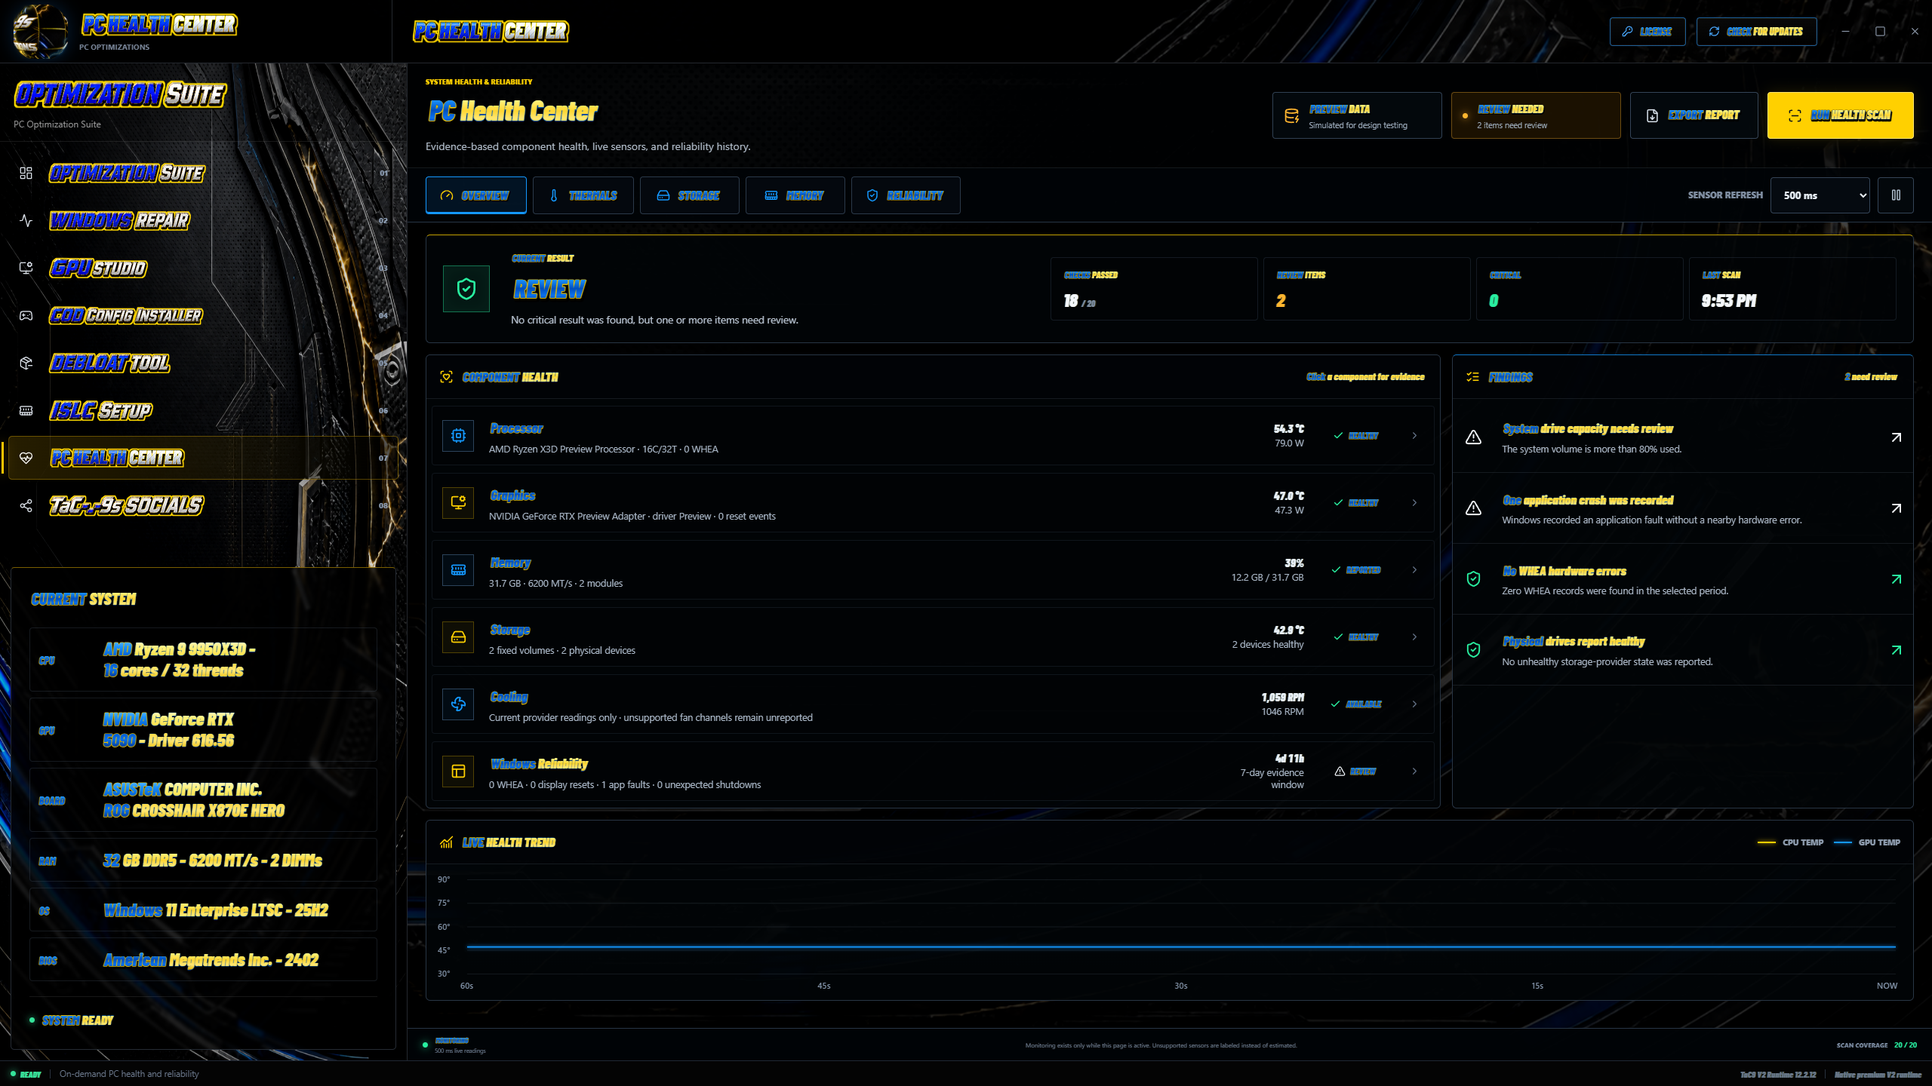
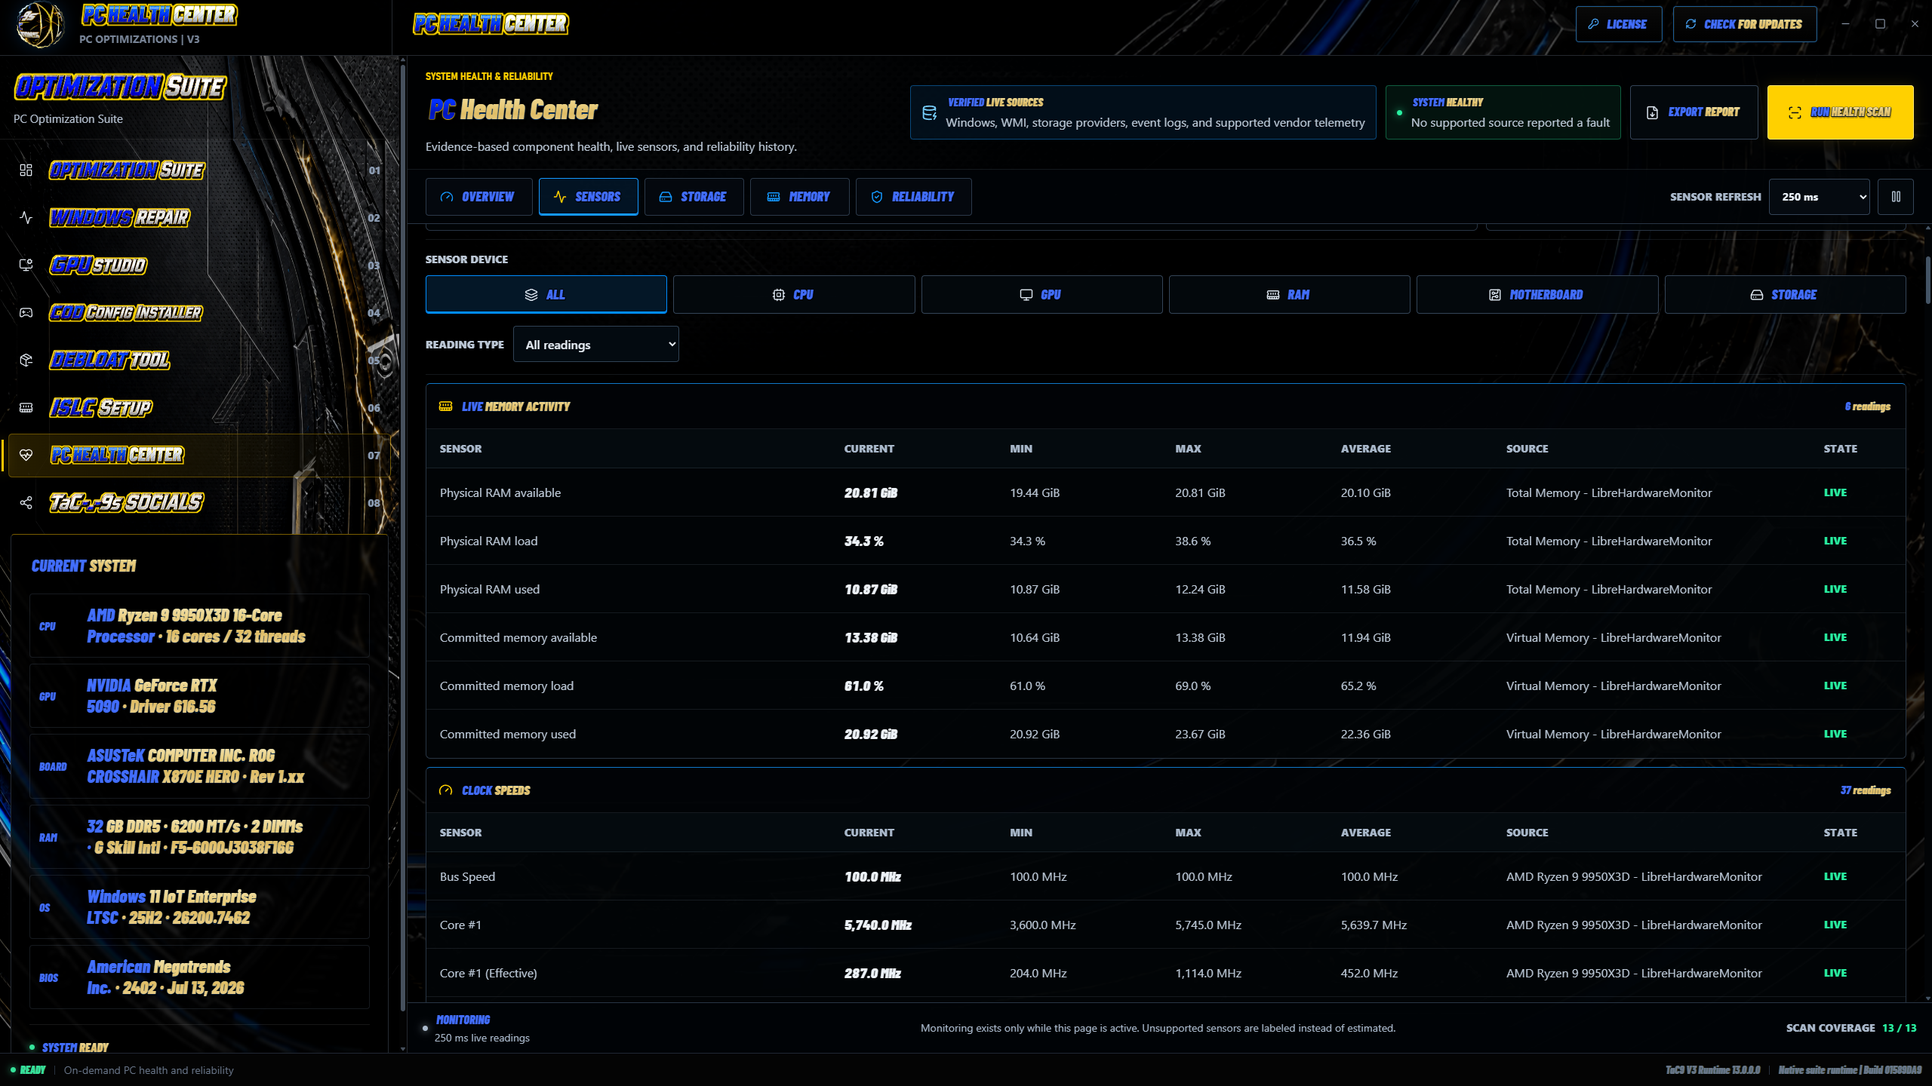
Publish V3 documentation, screenshots, and compatible verified downloader

diff --git a/README.md b/README.md
@@ -1,4 +1,4 @@
-# TaC9 PC Optimization Suite V2
+# TaC9 PC Optimization Suite V3
 
 **Windows optimization, repair, NVIDIA driver setup, game configuration, and PC health in one desktop suite.**
 
@@ -10,17 +10,30 @@ The suite is distributed as a **free app**. This repository is for customer down
 
 ![TaC9 Optimization Suite dashboard and eight-app navigation](docs/screenshots/suite.png)
 
-> Screenshots show the packaged 12.2.12 interface with example hardware and status data. They demonstrate the layout, not completed maintenance operations or performance results. Actual readings and available controls depend on your PC.
+> Screenshots show the packaged V3 13.0.0 interface. Hardware and live sensor values are from the test PC; non-sensor maintenance states use the UI test harness. No driver cleanup, repair, or app removal was performed for these screenshots. Available readings depend on your PC.
+
+## New in V3
+
+- A full-screen animated startup with the rotating TaC9 emblem, assembling silver chassis, upgraded blue/gold lighting, and a smoother transition into the suite.
+- Larger, clearer text and content-aware scrolling throughout the suite, including the 1080p and scaled-window layout fixes.
+- Expanded PC Health Center sensor tables with **Current, Min, Max, Average, Source, and State**, plus device and reading-type filters.
+- CPU, GPU, RAM, motherboard, and storage monitoring where supported, including temperatures, voltages, wattages, clocks, utilization, cooling, current, transfer rates, and memory activity.
+- CPU-sensor diagnostics with an optional, explicitly confirmed installation of the official signed PawnIO support component when needed.
+- A GPU preflight fix for the reported GPU-Z/HWiNFO `Add` error, corrected status reporting, and no false 100% completion on failed operations.
+
+The eight existing workspaces remain together. The repository keeps its original `TaC9-PC-Optimization-Suite-V2` address so established links and update feeds continue to work; **the current application is V3**.
 
 ## Download
 
-**Current release: 12.2.13**
+**Current release: V3 13.0.0, build 01589DA9**
 
-**[Download the full TaC9 suite for Windows](https://github.com/Tac-9-Pc-Optimizations/TaC9-PC-Optimization-Suite-V2/releases/latest/download/TaC9-PC-Optimization-Suite-V2.exe)**
+**[Download TaC9 V3 for Windows](https://github.com/Tac-9-Pc-Optimizations/TaC9-PC-Optimization-Suite-V2/releases/latest/download/TaC9-PC-Optimization-Suite-V3.exe)**
 
 [All releases and release notes](https://github.com/Tac-9-Pc-Optimizations/TaC9-PC-Optimization-Suite-V2/releases) | [SHA-256 checksum](https://github.com/Tac-9-Pc-Optimizations/TaC9-PC-Optimization-Suite-V2/releases/latest/download/SHA256SUMS.txt)
 
-One complete Windows executable, `TaC9-PC-Optimization-Suite-V2.exe`, includes the suite's eight workspaces. The COD Config Installer is included inside the suite, not offered here as a separate executable. Version 12.2.13 is approximately 163 MiB.
+One complete Windows executable, `TaC9-PC-Optimization-Suite-V3.exe`, includes the suite's eight workspaces. The COD Config Installer is included inside the suite, not offered here as a separate executable. Version 13.0.0 is approximately 191.5 MiB. Blender and Node.js are not required on the customer's PC.
+
+The release also supplies a byte-identical `TaC9-PC-Optimization-Suite-V2.exe` compatibility asset for existing updater clients and old direct-download links. That asset runs **V3**, despite its retained filename. The genuine previous V2 remains available in the [12.2.13 release](https://github.com/Tac-9-Pc-Optimizations/TaC9-PC-Optimization-Suite-V2/releases/tag/v12.2.13).
 
 The X3D Core Tester, CoreCycler, and y-cruncher are not included in this release.
 
@@ -32,20 +45,20 @@ Run this short command in Windows PowerShell 5.1 or PowerShell 7:
 irm https://raw.githubusercontent.com/Tac-9-Pc-Optimizations/TaC9-PC-Optimization-Suite-V2/main/win.ps1 | iex
 ```
 
-It runs the [readable download script](win.ps1) from this official repository. The script downloads the **latest published suite to your Desktop**, verifies the signed release manifest and the executable's SHA-256, and reports the saved file location. An existing download is left intact if verification fails; a matching current download is reused.
+It runs the [readable download script](win.ps1) from this official repository. The command is unchanged from V2. The script downloads the **latest published suite to your Desktop as `TaC9-PC-Optimization-Suite-V3.exe`**, verifies the signed release manifest and the executable's SHA-256, and reports the saved file location. An existing download is left intact if verification fails; a matching current download is reused.
 
 Only the same-named Desktop executable is replaced after successful verification. Other TaC9 executables, folders, shortcuts, license keys, settings, backups, and logs are not removed or changed. This is a downloader, not an uninstaller for previous TaC9 suites.
 
 The script does **not** launch the app, request administrator access, change execution policy, or disable Windows security protections. The short command executes a downloaded script, so use only this official URL and review [win.ps1](win.ps1) before running it. Download verification is not a Windows Authenticode publisher signature.
 
 <details>
-<summary>Manual download of version 12.2.13 without running a hosted script</summary>
+<summary>Manual download of V3 13.0.0 without running a hosted script</summary>
 
 ```powershell
-$url = 'https://github.com/Tac-9-Pc-Optimizations/TaC9-PC-Optimization-Suite-V2/releases/download/v12.2.13/TaC9-PC-Optimization-Suite-V2.exe'
-$file = Join-Path ([Environment]::GetFolderPath('Desktop')) 'TaC9-PC-Optimization-Suite-V2.exe'
+$url = 'https://github.com/Tac-9-Pc-Optimizations/TaC9-PC-Optimization-Suite-V2/releases/download/v13.0.0/TaC9-PC-Optimization-Suite-V3.exe'
+$file = Join-Path ([Environment]::GetFolderPath('Desktop')) 'TaC9-PC-Optimization-Suite-V3.exe'
 Invoke-WebRequest -Uri $url -OutFile $file -UseBasicParsing
[2 lines of base64/hex data omitted]
 Write-Host "Download verified: $file"
 ```
 
@@ -175,15 +188,22 @@ Memory cleanup is workload-dependent and is not a substitute for enough physical
 
 **An evidence-based view of supported hardware readings and Windows reliability history.**
 
-PC Health Center groups **Overview**, **Thermals**, **Storage**, **Memory**, and **Reliability** into one monitoring workspace. It combines the sources available on the current PC, including Windows inventory, supported sensor providers, storage status, and event-log evidence.
+PC Health Center groups **Overview**, **Sensors**, **Storage**, **Memory**, and **Reliability** into one monitoring workspace. It combines the sources available on the current PC, including Windows inventory, supported sensor providers, storage status, and event-log evidence.
 
-- Review processor and graphics temperatures, available power or clock readings, memory use, and storage information.
+- Filter readings by **All, CPU, GPU, RAM, Motherboard, or Storage**, then narrow the reading type.
+- Inspect temperature, voltage, power/wattage, clock/effective-clock, utilization, cooling, electrical-current, transfer-rate, RAM-activity, and GPU-memory sections where exposed.
+- Compare **Current, Min, Max, and Average** for the monitoring session, with the original provider and availability state alongside each row.
+- See measured CPU Vcore when a provider exposes it. Requested per-core VID is kept separate, and memory-controller voltage is not mislabeled as measured DIMM voltage.
+- Review a live CPU/GPU temperature trend, memory use, drive information, and supported DIMM temperatures.
 - Inspect component findings and their supporting evidence instead of relying on one unexplained score.
 - Review recorded WHEA hardware errors, display resets, application faults, and unexpected shutdowns where available.
 - Adjust the sensor refresh interval, pause monitoring, run a health scan, and export a report.
 - Distinguish reported healthy state, review items, critical findings, and unavailable data.
+- Diagnose missing CPU support. If prompted, choose **Set Up CPU Sensors** and confirm installation of the bundled official signed PawnIO component; reopen TaC9 afterward and restart Windows only if requested. It is not installed automatically at startup or by the PowerShell downloader.
 
 Unsupported sensor channels stay unavailable rather than being invented. A healthy result means no fault was found in the supported sources and selected evidence window; it is not a stress test, a hardware certification, or a guarantee against future failure.
+
+Individual CPU, motherboard, firmware, and driver combinations determine sensor availability. Not every system exposes measured Vcore, per-DIMM voltage/power, every fan, or GPU hotspot. Keep Windows security protections enabled if driver access is blocked, and export a report for support instead of disabling them.
 
 ![PC Health Center with component evidence, findings, sensor controls, and a live trend view](docs/screenshots/health.png)
 
@@ -197,7 +217,7 @@ Open the official Discord for support and announcements, visit the TaC9 YouTube 
 
 ## Getting Started
 
-1. [Download the full-suite executable](https://github.com/Tac-9-Pc-Optimizations/TaC9-PC-Optimization-Suite-V2/releases/latest/download/TaC9-PC-Optimization-Suite-V2.exe), or use the [PowerShell download](#powershell-download) above. Compare its SHA-256 checksum with the release information.
+1. [Download the full-suite V3 executable](https://github.com/Tac-9-Pc-Optimizations/TaC9-PC-Optimization-Suite-V2/releases/latest/download/TaC9-PC-Optimization-Suite-V3.exe), or use the [PowerShell download](#powershell-download) above. Compare its SHA-256 checksum with the release information.
 2. **[Join the official TaC9 Discord](https://discord.gg/3nrUffpVzt) and open a support ticket to request your license key.** The TaC9 team will help you obtain the key for the protected tools.
 3. Save your work. Back up important files and create a Windows restore point before making substantial system changes.
 4. Launch the suite with administrator rights when required for system operations. The interface uses Microsoft Edge WebView2; the launcher can attempt runtime setup when it is missing.
@@ -215,18 +235,20 @@ Open the official Discord for support and announcements, visit the TaC9 YouTube 
 - A supported NVIDIA GPU for GPU Studio's automated driver workflow.
 - A matching installed game and platform for the COD configuration workflow.
 
-The interface has been checked at 800x600, 1024x768, 1366x768, 1920x1080, and 2560x1440. Smaller windows use scrolling where needed. This is layout testing, not certification of every monitor, DPI setting, Windows build, or hardware combination.
+The V3 layout has been checked at 1920x1080, 1536x864, 1366x768, and 1280x720. The packaged native host was also checked at 1920x1080, 1536x864, and 1280x720; separate readability checks cover narrower views. Smaller windows use scrolling where needed. This is not certification of every monitor, DPI setting, Windows build, or hardware combination.
 
 ### Updates on Startup
 
 Starting with 12.2.13, **every normal launch checks for suite and supported tool updates**. A recent launch no longer skips the online check for four hours.
 
-- **Suite and built-in workspaces:** the signed V2 GitHub release updates the complete suite together, including Windows Repair, GPU Studio, COD Config Installer, Debloat Tool, ISLC Setup, PC Health Center, and Socials.
+- **Suite and built-in workspaces:** the existing signed GitHub feed now delivers V3 and updates the complete suite together, including Windows Repair, GPU Studio, COD Config Installer, Debloat Tool, ISLC Setup, PC Health Center, and Socials.
 - **Supported tool packages:** the tool updater checks DDU, NVCleanstall, ISLC, and the approved compatible NVIDIA Profile Inspector release. Profile Inspector intentionally follows the approved version, not any untested upstream release. Bundled TaC9 profile changes are delivered with suite releases.
 - **Verified installation:** newer suite packages must pass the signed manifest, SHA-256, and internal package checks before the update helper replaces the running suite and restarts it. Tool packages use their existing source and integrity checks. Saved license data and settings are retained.
 - **Unavailable sources:** incomplete checks are reported honestly; the installed verified suite can still open, independent tool checks are attempted, and a fresh check runs next launch.
 
 The **Check for Updates** button also runs these checks on demand. When moving from 12.2.12, use that button once to bypass its old four-hour startup cache, or close the suite and use the short PowerShell downloader.
+
+An in-app upgrade replaces the executable at its existing location, so an older `V2.exe` filename may remain even though the app and its version are V3. The current short downloader creates the V3-named Desktop file and leaves differently named old suites alone. Earlier local V3 test builds also reported 13.0.0; use the downloader to replace those with released build **01589DA9**, because the version-based updater does not treat the same version as newer.
 
 Startup package updates do not run GPU driver removal or installation, Windows repair, app debloating, or game-configuration actions. Those workflows remain actions you choose inside the suite. This is not a general updater for every application installed on Windows.
 
@@ -237,7 +259,7 @@ For maintainers, each newer release must include the full-suite EXE and a matchi
 Open PowerShell in the download folder and run:
 
 ```powershell
-Get-FileHash -LiteralPath '.\TaC9-PC-Optimization-Suite-V2.exe' -Algorithm SHA256
+Get-FileHash -LiteralPath '.\TaC9-PC-Optimization-Suite-V3.exe' -Algorithm SHA256
 ```
 
 Compare the full value with the checksum supplied for that exact release. A checksum helps detect a mismatched or damaged download; it does not replace publisher verification or a security scan.

diff --git a/docs/RELEASE-NOTES.md b/docs/RELEASE-NOTES.md
@@ -1,5 +1,58 @@
 # Release Notes
 
+## V3 13.0.0 - September 7, 2026
+
+[Download V3](https://github.com/Tac-9-Pc-Optimizations/TaC9-PC-Optimization-Suite-V2/releases/tag/v13.0.0). Build **01589DA9**.
+
+### Visuals and Readability
+
+- Full-screen startup with the rotating TaC9 emblem, assembling silver chassis, improved blue/gold lighting, and a smoother outward transition into the suite.
+- Startup progress remains visible until the outward transition starts. The native window waits for its first composed frame before becoming visible.
+- Larger, clearer text, hover-driven trim animation, and content-aware scrolling. Active progress trims continue while verification is pending.
+- Corrected dashboard/sidebar clipping at 1080p and common scaled sizes; the health trend reserves space for its full time axis.
+
+### Expanded PC Health Center
+
+- Current, Min, Max, Average, Source, and State across supported sensor tables.
+- Device filters for CPU, GPU, RAM, motherboard, and storage, combined with reading-type filters.
+- Temperature, voltage, wattage, clock/effective-clock, utilization, fan/duty, electrical-current, transfer-rate, RAM-activity, and GPU-memory sections where exposed.
+- Measured motherboard CPU Vcore appears in the CPU group when available. Requested VID and memory-controller voltages retain their distinct labels.
+- Shared sensor acquisition prevents an older health snapshot from erasing a newer GPU hotspot reading.
+- CPU-support diagnostics distinguish missing driver, elevation, blocked access, limited coverage, and restart-required states. Optional **Set Up CPU Sensors** uses the original signed PawnIO 2.2.0 installer only after confirmation; reopen TaC9 afterward.
+- Missing readings remain unavailable, never estimated. Sensor support varies by hardware, firmware, and provider. No promise of every sensor on every CPU or RAM module.
+
+### GPU Error and Operation Status
+
+- Fixed the process-inventory variable collision that reproduced `Cannot find an overload for "Add" and the argument count: "1"` with GPU-Z and regex-matched HWiNFO process names.
+- Fixed the retained GPU workflow's status-callback parameter compatibility.
+- Failed operations preserve their last percentage, mark untouched stages **Not run**, and remove the active restart warning. Only accepted successful completion reaches 100%.
+- Added local GPU error diagnostics for troubleshooting without publishing customer logs.
+
+### Installing and Updating
+
+The repository URL and short PowerShell command are unchanged. The current downloader saves `TaC9-PC-Optimization-Suite-V3.exe` on the Desktop; it does not remove differently named suites, settings, keys, or backups.
+
+Existing V2 clients use the same signed `manifest-v2.json` feed to discover V3. The V2-named asset in this release contains the **identical V3 executable** for old download links and updater compatibility. An in-app upgrade keeps the installed file's name/location. Previous genuine V2 builds remain available in their original releases.
+
+Earlier local V3 test builds also used version 13.0.0. Use the current downloader to replace those with build **01589DA9**; the version-based updater does not regard the same version as newer.
+
+[Join Discord](https://discord.gg/3nrUffpVzt) and open a support ticket for your license key. Socials and COD Config Installer remain key-free. The app remains free, and X3D Core Tester, CoreCycler, and y-cruncher remain excluded.
+
+### Verification and Limits
+
+- Package integrity, authenticated extraction, and private-data/secret checks passed before publication.
+- All eight native screens, live sensors, startup/progress visibility, and layout checks passed. Native window sizes included 1920x1080, 1536x864, and 1280x720; browser layout checks also included 1366x768.
+- Eight simulated GPU-process cases passed in Windows PowerShell 5.1 and the compiled PowerShell host. Driver-package and companion-inventory fixture tests passed.
+- The exact reported GPU-script failure was reproduced and corrected. Tests did not perform a real DDU cleanup, driver installation, app removal, or Windows repair. Full maintenance results still require validation on the target PC.
+
+### Download Integrity
+
+- Preferred file: `TaC9-PC-Optimization-Suite-V3.exe`
+- Compatibility filename: `TaC9-PC-Optimization-Suite-V2.exe` (identical V3 bytes)
+- Size: 200,761,248 bytes (approximately 191.5 MiB)
[1 lines of base64/hex data omitted]
+- Signed update manifest and internal package integrity; **not Windows Authenticode-signed**. Do not disable Windows security protections.
+
 ## 12.2.13 - September 6, 2026
 
 [Download the release](https://github.com/Tac-9-Pc-Optimizations/TaC9-PC-Optimization-Suite-V2/releases/tag/v12.2.13).

diff --git a/docs/THIRD-PARTY.md b/docs/THIRD-PARTY.md
@@ -11,6 +11,7 @@ TaC9 is a free suite that coordinates independently authored Windows tools and l
 | NVCleanstall 1.19.0 | [TechPowerUp](https://www.techpowerup.com/download/techpowerup-nvcleanstall/) | Original TechPowerUp utility, unmodified. Copyright TechPowerUp. NVIDIA driver terms still apply to drivers downloaded by the workflow. |
 | NVIDIA Profile Inspector 3.0.2.2 | [Orbmu2k](https://github.com/Orbmu2k/nvidiaProfileInspector/tree/v3.0.2.2) | MIT. Original license included with Profile Inspector and in `ThirdPartyNotices`. TaC9's supplied profile is separate from the Profile Inspector program. |
 | 7-Zip extractor | [Igor Pavlov / 7-Zip](https://www.7-zip.org/) | Original license is included in `Update/Extractor/License.txt`; source is available from the [7-Zip download page](https://www.7-zip.org/download.html). |
+| PawnIO 2.2.0 optional sensor support | [namazso / PawnIO](https://pawnio.eu/) | Official unmodified signed installer, with provenance and hash in `SensorSupport/PROVENANCE.md`. Installation requires explicit confirmation. [Upstream redistribution guidance](https://github.com/namazso/PawnIO.Modules/wiki/Using-PawnIO-Modules). |
 
 ISLC's license requires free redistribution, an unchanged complete original distribution, and retained notices. This release is provided free of charge and includes that original distribution. It must not be repackaged as part of a charged product or service contrary to those terms.
 

diff --git a/SECURITY.md b/SECURITY.md
@@ -10,7 +10,7 @@ Do not publish access keys, customer license files, HWIDs, authorization materia
 
 Use the official release and compare the executable's SHA-256 value with the checksum for that release. Do not use reuploaded copies or disable security software to bypass an unexplained warning. A matching checksum establishes file consistency, not a security certification.
 
-The 12.2.12 release has internal package-integrity checks but is not Windows Authenticode-signed. These are different mechanisms and should not be confused.
+V3 13.0.0 has internal package-integrity checks and a signed update manifest but is not Windows Authenticode-signed. These are different mechanisms and should not be confused. The optional bundled PawnIO installer has its own upstream Authenticode signature; that signature does not sign or certify the TaC9 executable.
 
 ## Repository Scope
 
